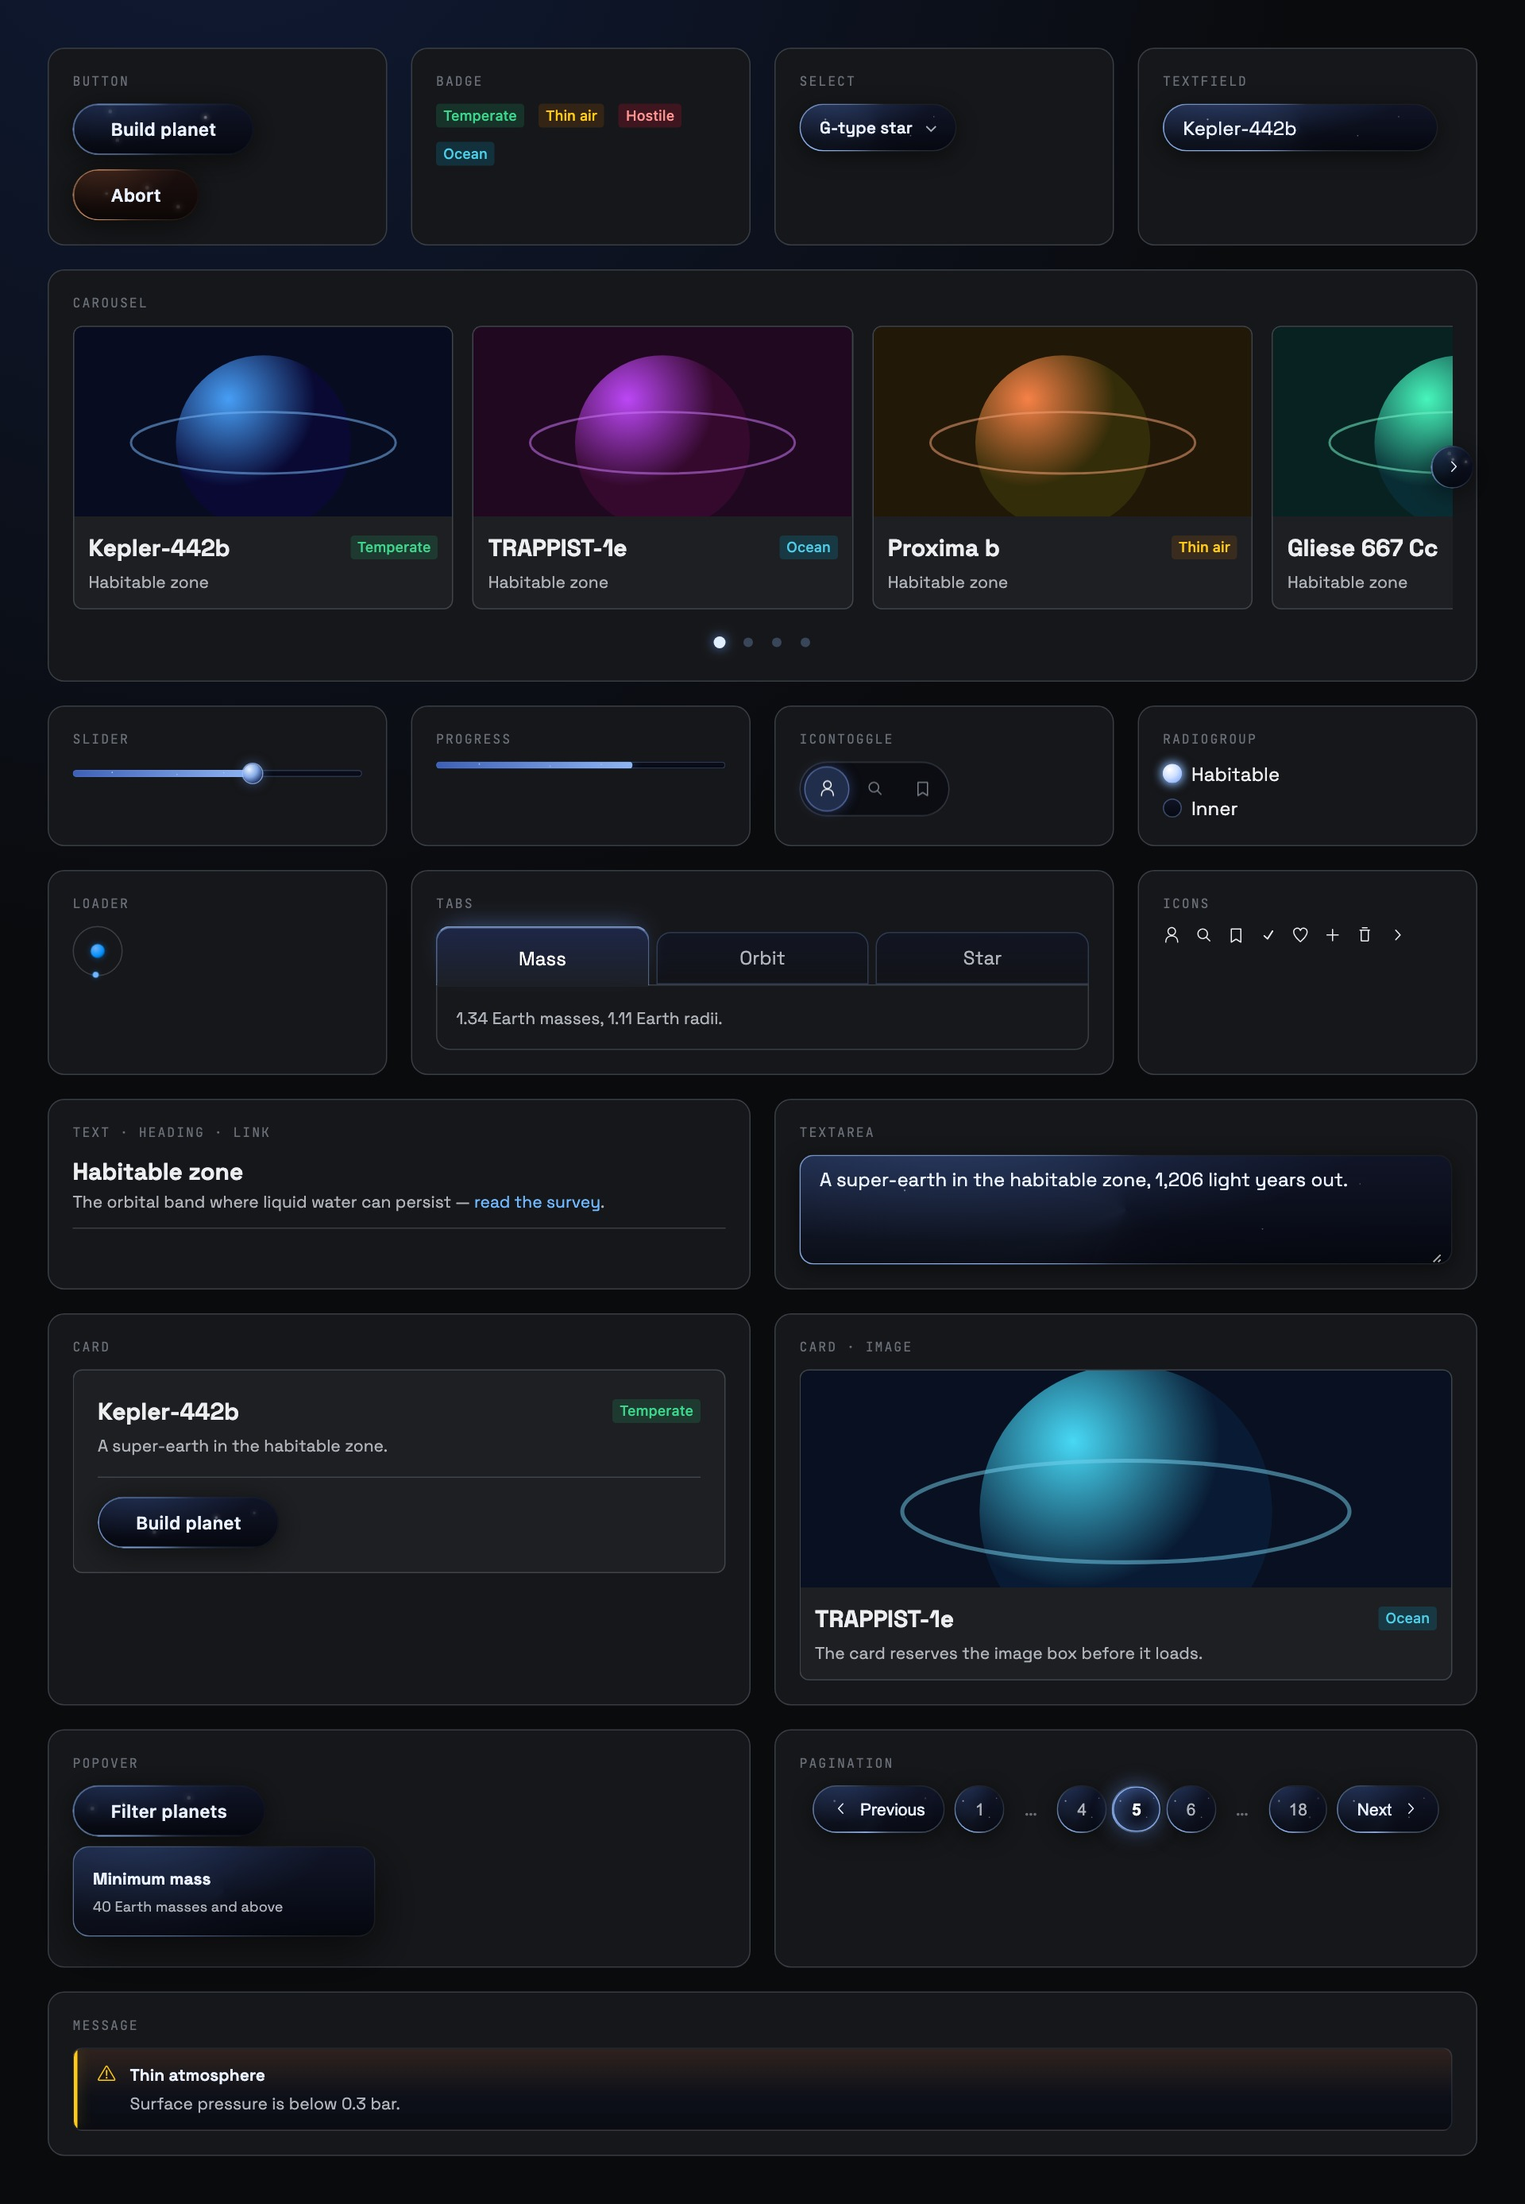
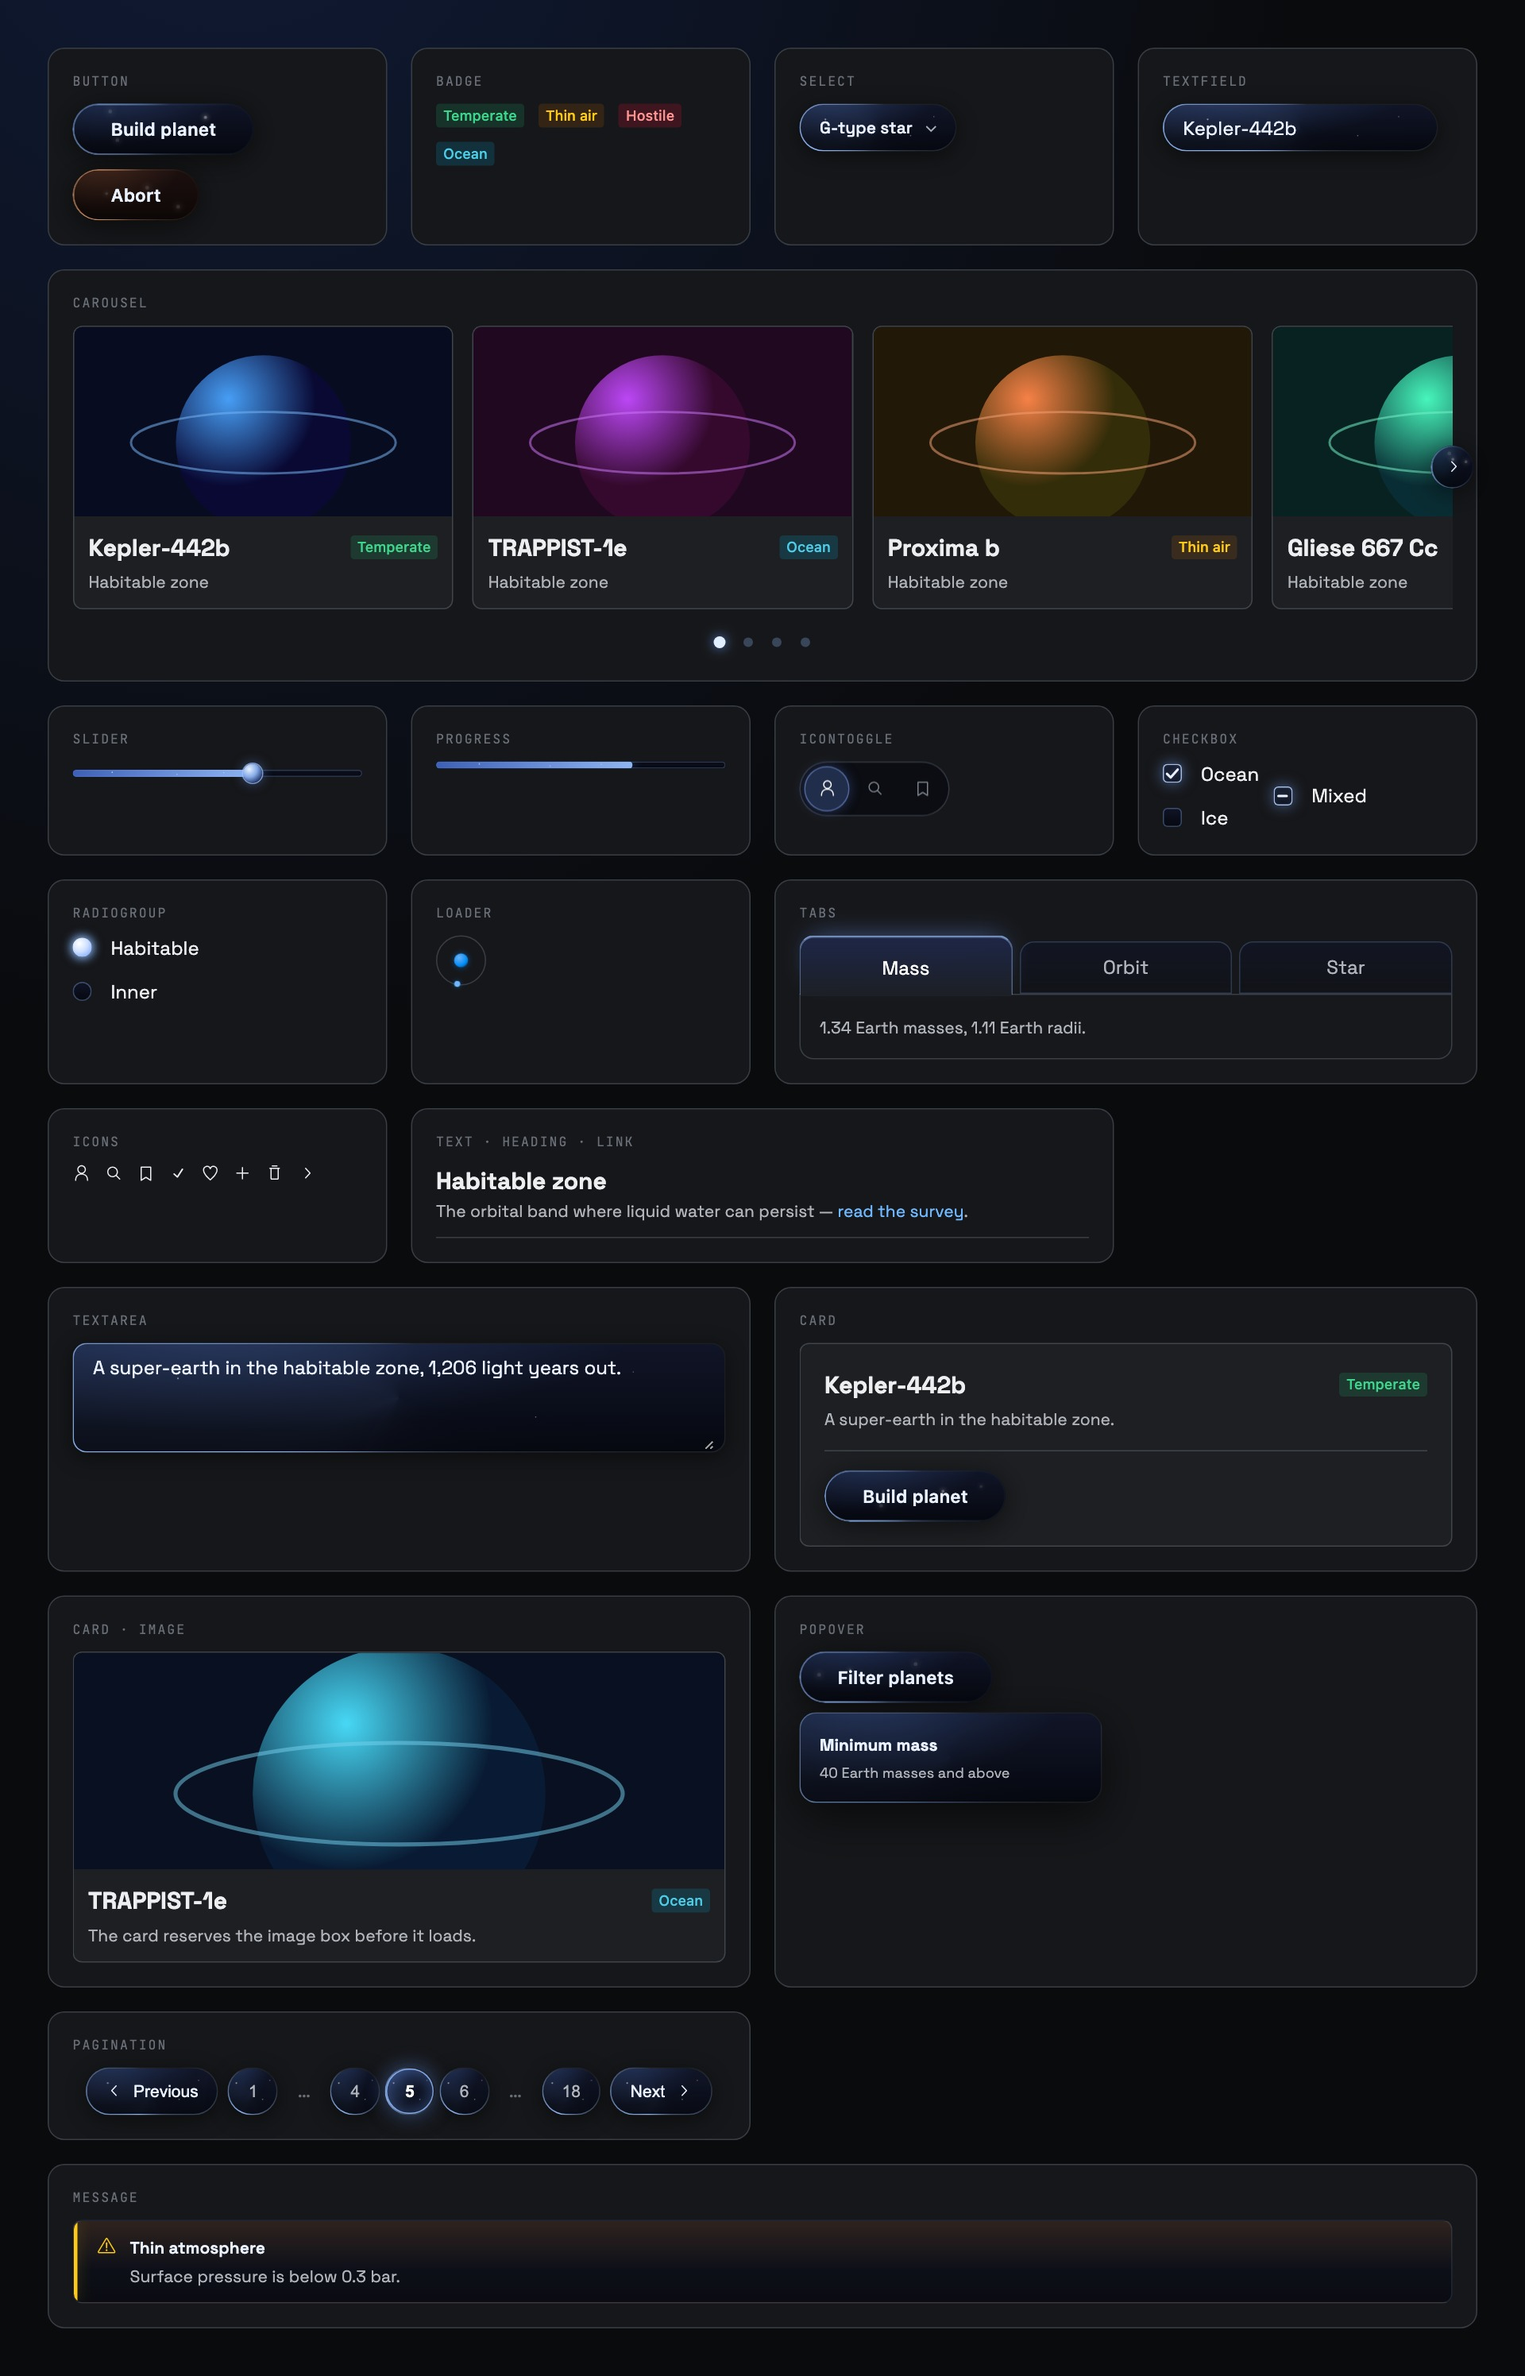
Light the checkbox when it is checked
The tick draws itself on instead of appearing, the tile lights along its
rim and blooms inside, and a ring of light leaves the tile at the moment
of checking. The dash wipes open from the middle, so mixed reads as its
own state. Reduced motion gets the mark with none of it.

diff --git a/packages/space-ui/src/components/Checkbox.module.scss b/packages/space-ui/src/components/Checkbox.module.scss
@@ -70,40 +70,92 @@
   }
 }
 
-/* Both marks are always rendered and revealed by scale, so the change can
-   transition; hiding one by not rendering it would make it instant. */
-.mark {
+/* The mark is starlight on glass. Checking does three things at once: the
+   tile lights along its rim, the tick DRAWS itself rather than appearing,
+   and a ring of light leaves the tile — the flash of something igniting.
+   Unchecking simply lets all of it go out. */
+.tick,
+.dash {
   position: absolute;
   color: var(--sp-checkbox-mark-color);
-  transform: scale(0);
-  transition: transform 0.15s ease;
+  pointer-events: none;
 }
 
 .tick {
-  width: calc(var(--sp-checkbox-box-size, 16px) + 4px);
-  height: calc(var(--sp-checkbox-box-size, 16px) + 4px);
+  width: 100%;
+  height: 100%;
+  // The tick is drawn on, so the glow has to be on the stroke itself.
+  filter: drop-shadow(0 0 3px var(--sp-checkbox-halo-color));
 }
 
-/* Partly chosen, not chosen: a dash, never a tick. */
+/* Hidden by having no length drawn, not by display: that is what lets it be
+   drawn on. */
+.tickPath {
+  stroke-dasharray: 1;
+  stroke-dashoffset: 1;
+  opacity: 0;
+  transition:
+    stroke-dashoffset 0.34s cubic-bezier(0.2, 0.8, 0.2, 1) 0.04s,
+    opacity 0.08s linear;
+}
+
+/* Partly chosen, not chosen: a dash, never a tick. Wipes open from the
+   middle, so it reads as a state of its own and not a half-drawn tick. */
 .dash {
-  width: 60%;
+  width: 56%;
   height: 2px;
   border-radius: 1px;
   background: currentColor;
+  box-shadow: 0 0 6px var(--sp-checkbox-halo-color);
+  transform: scaleX(0);
+  transition: transform 0.18s cubic-bezier(0.2, 0.8, 0.2, 1);
+}
+
+/* The ring that leaves the tile at the moment of checking. Always present,
+   at zero opacity; the keyframes run only when the state changes. */
+.box::after {
+  content: "";
+  position: absolute;
+  inset: 0;
+  border-radius: inherit;
+  border: 1px solid var(--sp-checkbox-glow-color);
+  opacity: 0;
+  pointer-events: none;
 }
 
 .input:checked ~ .box,
 .input:indeterminate ~ .box {
+  background: linear-gradient(180deg, rgb(var(--sp-glass-rgb) / 0.6), rgb(var(--sp-glass-deep-rgb) / 0.9));
   box-shadow:
     inset 0 0 0 1px var(--sp-checkbox-glow-color),
-    0 0 10px var(--sp-checkbox-halo-color);
+    inset 0 0 10px -4px var(--sp-checkbox-halo-color),
+    0 0 12px var(--sp-checkbox-halo-color);
+}
+
+.input:checked:not(:indeterminate) ~ .box::after {
+  animation: sp-checkbox-burst 0.52s cubic-bezier(0.16, 0.84, 0.44, 1);
+}
+
+.input:checked:not(:indeterminate) ~ .box .tickPath {
+  stroke-dashoffset: 0;
+  opacity: 1;
 }
 
 // :indeterminate wins: a partly chosen parent shows the dash even though the
 // input is also checked.
-.input:checked:not(:indeterminate) ~ .box .tick,
 .input:indeterminate ~ .box .dash {
-  transform: scale(1);
+  transform: scaleX(1);
+}
+
+@keyframes sp-checkbox-burst {
+  0% {
+    opacity: 0.9;
+    transform: scale(1);
+  }
+  100% {
+    opacity: 0;
+    transform: scale(2.1);
+  }
 }
 
 .input:focus-visible ~ .box {
@@ -119,9 +171,15 @@
   opacity: 0.55;
 }
 
+// No drawing on, no ring leaving the tile: the mark is simply there.
 @media (prefers-reduced-motion: reduce) {
   .box,
-  .mark {
+  .tickPath,
+  .dash {
     transition: none;
+  }
+
+  .input:checked ~ .box::after {
+    animation: none;
   }
 }

diff --git a/packages/space-ui/src/components/Checkbox.tsx b/packages/space-ui/src/components/Checkbox.tsx
@@ -2,7 +2,6 @@
 import type * as React from "react";
 import { createContext, useContext, useEffect, useRef, type ReactNode } from "react";
 import { cx } from "./propShared";
-import { CheckIcon } from "./icons";
 import styles from "./Checkbox.module.scss";
 
 interface GroupCtx {
@@ -49,8 +48,21 @@ function Control({
         onChange={(e) => onToggle(e.currentTarget.checked)}
       />
       <span className={styles.box} aria-hidden="true">
-        <CheckIcon className={cx(styles.mark, styles.tick)} />
-        <span className={cx(styles.mark, styles.dash)} />
+        {/* Drawn here rather than with CheckIcon: a stroked path with
+            pathLength 1 lets the tick draw itself on, which a filled icon
+            cannot do. */}
+        <svg className={styles.tick} viewBox="0 0 16 16" fill="none">
+          <path
+            className={styles.tickPath}
+            d="M3.5 8.4 6.6 11.5 12.5 4.8"
+            pathLength={1}
+            stroke="currentColor"
+            strokeWidth={2}
+            strokeLinecap="round"
+            strokeLinejoin="round"
+          />
+        </svg>
+        <span className={styles.dash} />
       </span>
     </>
   );

diff --git a/apps/docs/src/stickersheet.stories.tsx b/apps/docs/src/stickersheet.stories.tsx
@@ -6,6 +6,8 @@ import {
   CheckIcon,
   Card,
   Carousel,
+  Checkbox,
+  CheckboxGroup,
   Heading,
   HeartIcon,
   IconToggle,
@@ -51,6 +53,7 @@ export const Stickersheet = () => {
   const [mass, setMass] = useState([62]);
   const [band, setBand] = useState("habitable");
   const [tab, setTab] = useState("mass");
+  const [types, setTypes] = useState<string[]>(["ocean"]);
 
   return (
     <div className="docs-sheet" data-stickersheet>
@@ -113,6 +116,14 @@ export const Stickersheet = () => {
               { value: "atmos", icon: <BookmarkIcon />, label: "Atmos" },
             ]}
           />
+        </Cell>
+
+        <Cell label="Checkbox">
+          <CheckboxGroup value={types} onValueChange={setTypes} aria-label="World types">
+            <CheckboxGroup.Item value="ocean">Ocean</CheckboxGroup.Item>
+            <CheckboxGroup.Item value="ice">Ice</CheckboxGroup.Item>
+          </CheckboxGroup>
+          <Checkbox checked indeterminate onCheckedChange={() => {}}>Mixed</Checkbox>
         </Cell>
 
         <Cell label="RadioGroup">

diff --git a/packages/space-ui/src/components/primitives.test.tsx b/packages/space-ui/src/components/primitives.test.tsx
@@ -1109,11 +1109,14 @@ describe("Checkbox", () => {
     expect(html(<Checkbox checked={false} onCheckedChange={() => {}}>Off</Checkbox>)).not.toContain('checked=""');
   });
 
-  it("renders both marks always, so the change can transition", () => {
+  it("renders both marks always, so each can animate in", () => {
     // Static markup: indeterminate is a DOM property with no attribute, so
-    // the dash cannot be rendered conditionally and still animate.
+    // neither mark can be rendered conditionally and still animate. The tick
+    // is a stroked path with pathLength 1 — that is what lets it draw on.
     const out = html(<Checkbox checked={false} onCheckedChange={() => {}}>Mixed</Checkbox>);
-    expect(out.match(/mark/g)?.length).toBeGreaterThanOrEqual(2);
+    expect(out).toContain('pathLength="1"');
+    expect(out).toContain("tickPath");
+    expect(out).toContain("dash");
   });
 });
 

diff --git a/apps/docs/src/overview.stories.tsx b/apps/docs/src/overview.stories.tsx
@@ -237,6 +237,7 @@ const CATALOGUE: Array<[string, Array<[string, string]>]> = [
   ]],
   ["Forms", [
     ["Autocomplete", "components--forms--autocomplete"],
+    ["Checkbox", "components--forms--checkbox"],
     ["TextField", "components--forms--text-field"],
     ["TextArea", "components--forms--text-area"],
     ["Select", "components--forms--select"],

diff --git a/README.md b/README.md
@@ -3,8 +3,8 @@
 <!-- badges:start -->
 
 [![npm](https://img.shields.io/npm/v/@inkorange/space-ui)](https://www.npmjs.com/package/@inkorange/space-ui)
-![coverage](https://img.shields.io/badge/coverage-74%25-yellowgreen)
-![minzip](https://img.shields.io/badge/minzip-30.4%20kB-blue)
+![coverage](https://img.shields.io/badge/coverage-75%25-yellowgreen)
+![minzip](https://img.shields.io/badge/minzip-31.6%20kB-blue)
 ![dependencies](https://img.shields.io/badge/dependencies-0-blue)
 [![docs](https://img.shields.io/badge/docs-live%20gallery-0b7dd6)](https://space-components.vercel.app)
 
@@ -18,7 +18,7 @@ compose and nothing to opt into.
      resolve against the registry rather than the repository. This sheet is a
      screenshot of the real components, shot from the gallery — see
      `pnpm assets`. -->
-<img alt="Stickersheet: Button, Badge, Select, TextField, Slider, Progress, IconToggle, RadioGroup, Loader, Tabs, icons, Text, TextArea, Card plain and with an image, an open Popover, Pagination, a Carousel and a Message banner on a dark ground"
+<img alt="Stickersheet: Button, Badge, Select, TextField, Slider, Progress, IconToggle, RadioGroup, Checkbox, Loader, Tabs, icons, Text, TextArea, Card plain and with an image, an open Popover, Pagination, a Carousel and a Message banner on a dark ground"
      src="https://raw.githubusercontent.com/inkorange/space-ui/main/.github/assets/components.jpg"
      width="100%">
 
@@ -174,7 +174,7 @@ it exposes.
 | --- | --- |
 | **Typography** | [Text](https://space-components.vercel.app/?story=components--typography--text-sizes) · [Link](https://space-components.vercel.app/?story=components--typography--text-sizes) · [Heading](https://space-components.vercel.app/?story=components--typography--headings) · [Badge](https://space-components.vercel.app/?story=components--typography--badges) · [Separator](https://space-components.vercel.app/?story=components--typography--separator) |
 | **Layout** | [Card](https://space-components.vercel.app/?story=components--layout--card) · [Carousel](https://space-components.vercel.app/?story=components--layout--carousel) · [Flex](https://space-components.vercel.app/?story=components--layout--flex-and-grid) · [Grid](https://space-components.vercel.app/?story=components--layout--flex-and-grid) · [Box](https://space-components.vercel.app/?story=components--layout--flex-and-grid) · [Pagination](https://space-components.vercel.app/?story=components--layout--pagination) |
-| **Forms** | [Autocomplete](https://space-components.vercel.app/?story=components--forms--autocomplete) · [TextField](https://space-components.vercel.app/?story=components--forms--text-field) · [TextArea](https://space-components.vercel.app/?story=components--forms--text-area) · [Select](https://space-components.vercel.app/?story=components--forms--select) · [Slider](https://space-components.vercel.app/?story=components--forms--slider) · [RadioGroup](https://space-components.vercel.app/?story=components--forms--radio-group) |
+| **Forms** | [Autocomplete](https://space-components.vercel.app/?story=components--forms--autocomplete) · [Checkbox](https://space-components.vercel.app/?story=components--forms--checkbox) · [TextField](https://space-components.vercel.app/?story=components--forms--text-field) · [TextArea](https://space-components.vercel.app/?story=components--forms--text-area) · [Select](https://space-components.vercel.app/?story=components--forms--select) · [Slider](https://space-components.vercel.app/?story=components--forms--slider) · [RadioGroup](https://space-components.vercel.app/?story=components--forms--radio-group) |
 | **Buttons** | [Button](https://space-components.vercel.app/?story=components--buttons--buttons) · [IconToggle](https://space-components.vercel.app/?story=components--buttons--icon-toggle) |
 | **Feedback** | [Loader](https://space-components.vercel.app/?story=components--feedback--loader) · [Progress](https://space-components.vercel.app/?story=components--feedback--progress) · [Message](https://space-components.vercel.app/?story=components--feedback--message) |
 | **Overlays** | [Dialog](https://space-components.vercel.app/?story=components--overlays--dialog) · [AlertDialog](https://space-components.vercel.app/?story=components--overlays--alert-dialog) · [DropdownMenu](https://space-components.vercel.app/?story=components--overlays--dropdown-menu) · [Popover](https://space-components.vercel.app/?story=components--overlays--popover) · [Tabs](https://space-components.vercel.app/?story=components--overlays--tabs) · [Tooltip](https://space-components.vercel.app/?story=components--overlays--tooltip) |

diff --git a/.changeset/checkbox.md b/.changeset/checkbox.md
@@ -1,0 +1,9 @@
+---
+"@inkorange/space-ui": minor
+---
+
+Add `Checkbox` and `CheckboxGroup`.
+
+`Checkbox` is a single yes/no choice. `CheckboxGroup` wraps `CheckboxGroup.Item`s and holds the chosen values as an array, so a set where any number can be picked costs one piece of state rather than one boolean per option. Ticking appends, so the array keeps the order things were chosen in.
+
+`indeterminate` draws a dash instead of a tick and sets the DOM property, so a select-all row that is only partly chosen announces as mixed. Checking lights the tile along its rim, draws the tick on rather than popping it in, and sends a ring of light out from the tile; `animated` motion is skipped under reduced motion. Labels are part of the click target, and a label that wraps keeps its tile against its first line. Sizes and spacing come from `--sp-checkbox-box-size`, `--sp-checkbox-label-gap-size` and `--sp-checkbox-row-gap-size`; the mark and its glow from `--sp-checkbox-mark-color`, `--sp-checkbox-glow-color` and `--sp-checkbox-halo-color`.
